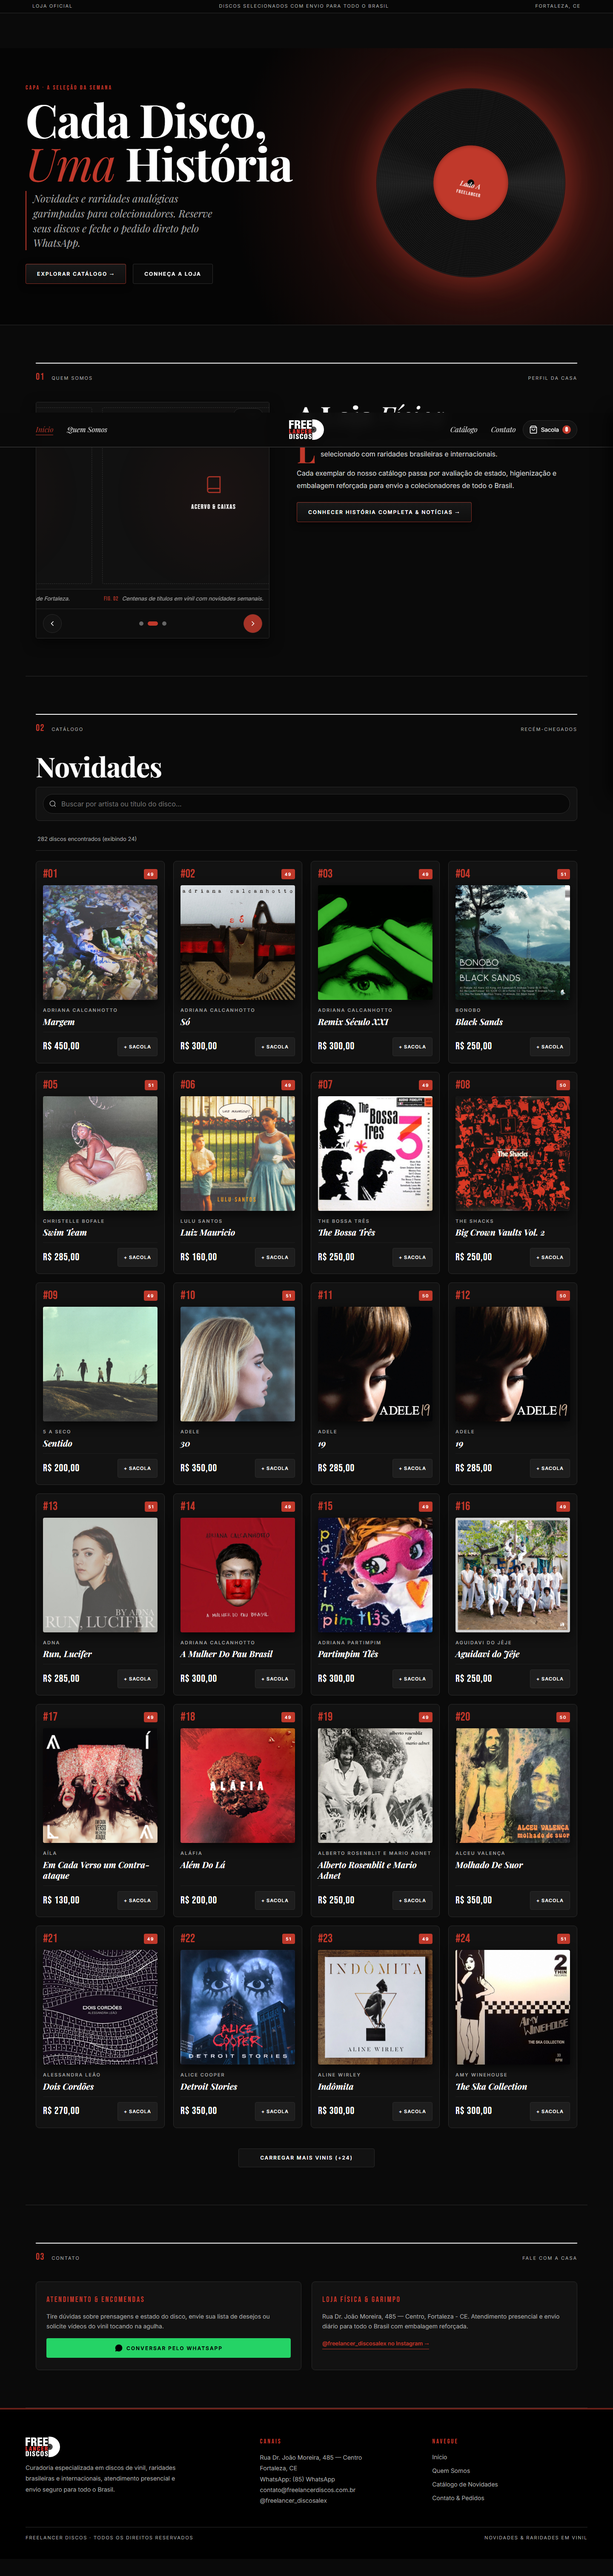
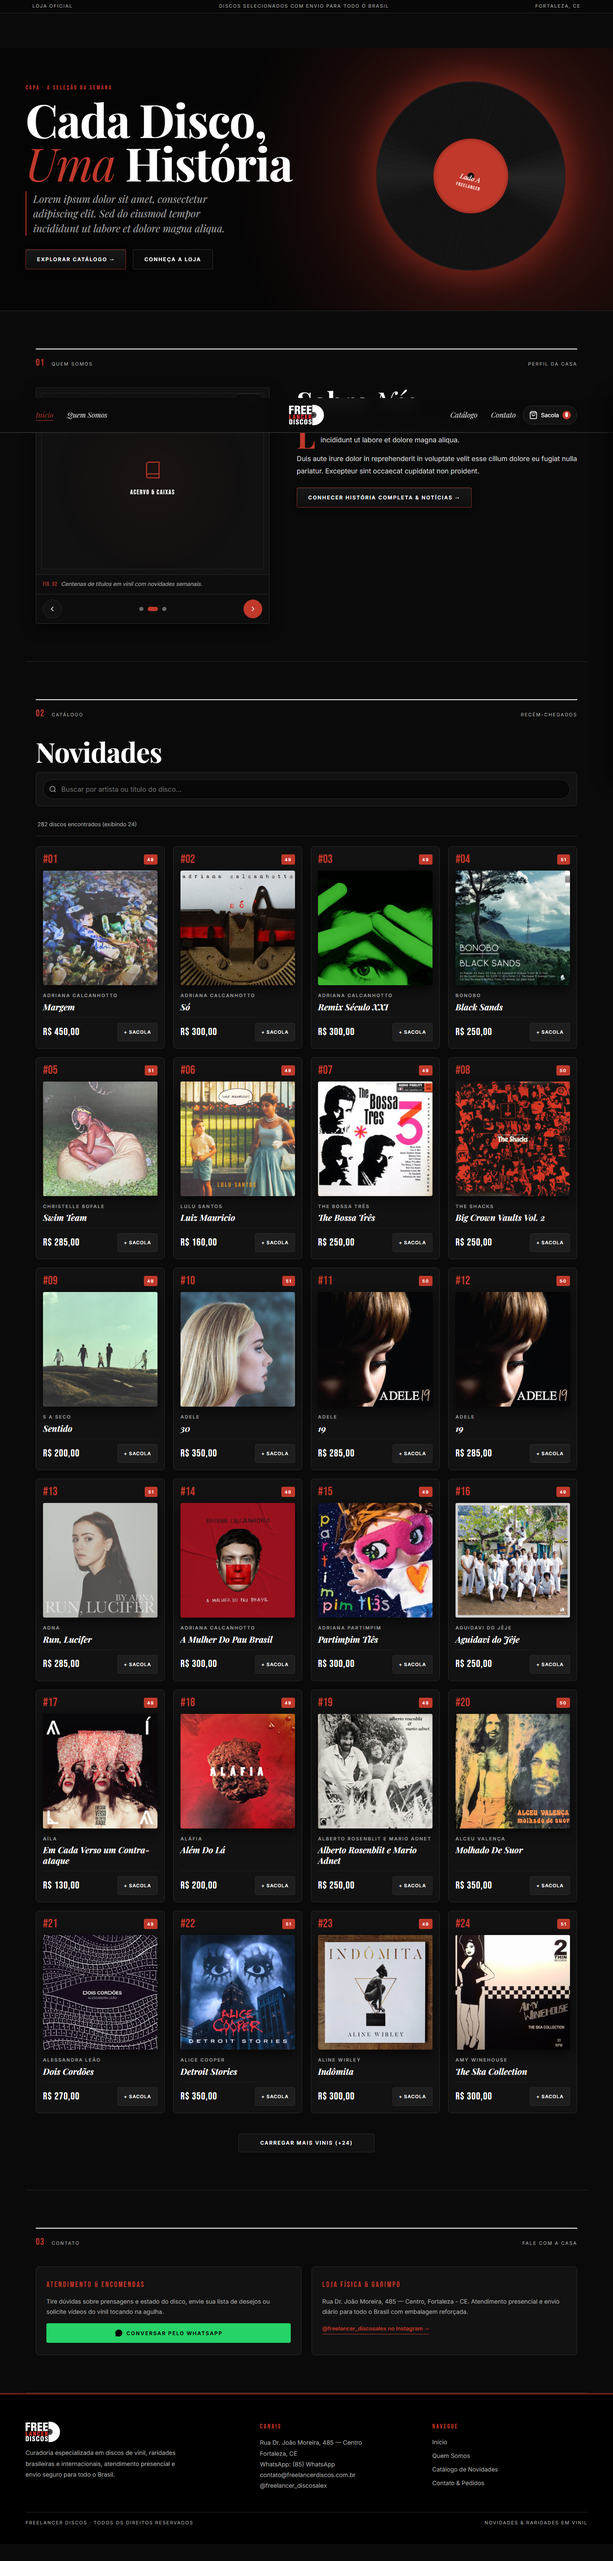
chore(content): restaura textos em lorem ipsum como placeholder

diff --git a/sobre.html b/sobre.html
@@ -83,9 +83,9 @@
   <section class="about-hero-section">
     <div class="about-hero-inner">
       <span class="about-hero-kicker">HISTÓRIA & MANIFESTO · FREELANCER DISCOS</span>
-      <h1 class="about-hero-title">Nossa História,<br><em>O Vinil</em> & A Cidade</h1>
+      <h1 class="about-hero-title">Nossa História,<br><em>O Vinil</em> & Notícias</h1>
       <p class="about-hero-lede">
-        Mais que uma loja, um refúgio para quem entende a música como experiência física, tátil e inegociável no Centro de Fortaleza.
+        Lorem ipsum dolor sit amet, consectetur adipiscing elit. Sed do eiusmod tempor incididunt ut labore et dolore magna aliqua. Ut enim ad minim veniam, quis nostrud exercitation ullamco laboris.
       </p>
       <div class="about-hero-actions">
         <a href="#historia" class="btn btn-primary">Conhecer a Trajetória ↓</a>
@@ -106,15 +106,15 @@
       <div class="about-content" style="grid-column: 1 / -1; max-width: 920px; margin: 0 auto;">
         <h2 class="editorial-heading">A Origem do <em>Garimpo</em></h2>
         <p class="about-lead">
-          A Freelancer Discos nasceu do fascínio pelo ritual analógico: folhear capas, decifrar fichas técnicas, sentir o peso do vinil e descobrir sonoridades esquecidas pelo algoritmo.
+          Lorem ipsum dolor sit amet, consectetur adipiscing elit. Integer nec odio. Praesent libero. Sed cursus ante dapibus diam. Sed nisi. Nulla quis sem at nibh elementum imperdiet.
         </p>
 
         <blockquote class="about-quote">
-          “Cada disco que passa por nossas mãos carrega uma época, uma história e uma nova escuta esperando para acontecer.”
+          “Lorem ipsum dolor sit amet, consectetur adipiscing elit. Curabitur pretium tincidunt lacus. Nulla gravida orci a odio, et feugiat enim ipsum eu libero.”
         </blockquote>
 
         <p>
-          O que começou com garimpos individuais em feiras e coleções particulares transformou-se em um acervo vivo com centenas de títulos catalogados. Nosso compromisso é com a transparência: avaliação rigorosa do estado de conservação, higienização profissional e embalagens preparadas para resistir ao transporte por todo o país.
+          Lorem ipsum dolor sit amet, consectetur adipiscing elit. Sed do eiusmod tempor incididunt ut labore et dolore magna aliqua. Ut enim ad minim veniam, quis nostrud exercitation ullamco laboris nisi ut aliquip ex ea commodo consequat. Duis aute irure dolor in reprehenderit in voluptate velit esse cillum dolore eu fugiat nulla pariatur.
         </p>
 
         <!-- Timeline Cronológica Editorial -->
@@ -122,25 +122,25 @@
           <div class="timeline-card">
             <span class="timeline-year">2018</span>
             <h3 class="timeline-heading">O Primeiro Garimpo</h3>
-            <p class="timeline-text">Início da circulação em feiras de vinil e formação do primeiro acervo de música brasileira.</p>
+            <p class="timeline-text">Lorem ipsum dolor sit amet, consectetur adipiscing elit. Sed do eiusmod tempor incididunt ut labore.</p>
           </div>
 
           <div class="timeline-card">
             <span class="timeline-year">2021</span>
             <h3 class="timeline-heading">Espaço no Centro</h3>
-            <p class="timeline-text">Abertura do ponto físico na Rua Dr. João Moreira, 485, tornando-se referência de garimpo.</p>
+            <p class="timeline-text">Duis aute irure dolor in reprehenderit in voluptate velit esse cillum dolore eu fugiat nulla pariatur.</p>
           </div>
 
           <div class="timeline-card">
             <span class="timeline-year">2024</span>
             <h3 class="timeline-heading">Caixas 50 e 51</h3>
-            <p class="timeline-text">Chegada de lotes raros com discos icônicos e prensagens originais de MPB, Rock e Jazz.</p>
+            <p class="timeline-text">Excepteur sint occaecat cupidatat non proident, sunt in culpa qui officia deserunt mollit anim id est.</p>
           </div>
 
           <div class="timeline-card">
             <span class="timeline-year">2026</span>
             <h3 class="timeline-heading">Catálogo Digital</h3>
-            <p class="timeline-text">Integração do acervo físico à loja online com reserva em tempo real via WhatsApp.</p>
+            <p class="timeline-text">Nullam varius, turpis et commodo pharetra, est eros bibendum elit, nec luctus magna felis sollicitudin.</p>
           </div>
         </div>
       </div>

diff --git a/index.html b/index.html
@@ -85,7 +85,7 @@
       <div class="hero-text">
         <span class="hero-kicker">CAPA · A SELEÇÃO DA SEMANA</span>
         <h1 class="hero-title">Cada Disco,<br><em>Uma</em> História</h1>
-        <p class="hero-lede">Novidades e raridades analógicas garimpadas para colecionadores. Reserve seus discos e feche o pedido direto pelo WhatsApp.</p>
+        <p class="hero-lede">Lorem ipsum dolor sit amet, consectetur adipiscing elit. Sed do eiusmod tempor incididunt ut labore et dolore magna aliqua.</p>
         <div class="hero-actions">
           <a href="#catalogo" class="btn btn-primary">Explorar Catálogo →</a>
           <a href="sobre.html" class="btn btn-outline">Conheça a Loja</a>
@@ -217,9 +217,9 @@
 
       <!-- Conteúdo Editorial -->
       <div class="about-content">
-        <h2 class="editorial-heading">A Loja <em>Física</em></h2>
-        <p class="about-lead">Localizada no Centro de Fortaleza, a Freelancer Discos reúne um acervo selecionado com raridades brasileiras e internacionais.</p>
-        <p>Cada exemplar do nosso catálogo passa por avaliação de estado, higienização e embalagem reforçada para envio a colecionadores de todo o Brasil.</p>
+        <h2 class="editorial-heading">Sobre <em>Nós</em></h2>
+        <p class="about-lead">Lorem ipsum dolor sit amet, consectetur adipiscing elit. Sed do eiusmod tempor incididunt ut labore et dolore magna aliqua.</p>
+        <p>Duis aute irure dolor in reprehenderit in voluptate velit esse cillum dolore eu fugiat nulla pariatur. Excepteur sint occaecat cupidatat non proident.</p>
         
         <div style="margin-top: 24px; display: flex; gap: 12px; flex-wrap: wrap;">
           <a href="sobre.html" class="btn btn-primary">Conhecer História Completa & Notícias →</a>
